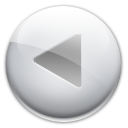
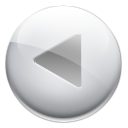
botones translucidos ambos

diff --git a/client/src/App.js b/client/src/App.js
@@ -4,8 +4,8 @@
 //el fetch es para traer datos del backend
 import { useState, useEffect } from "react";
 import './App.css'
-import back from './back2.png'
-import forward from './forward.png'
+import backI from './back2.png'
+import forwardI from './forward.png'
 
 function App() {
   //esta declaracion el array es el primero data es la variable que deseamos usar
@@ -50,7 +50,7 @@ function App() {
   <div className="scroll-page0" id="page-1">
 {/* Imagen para atras con boton */}
  <button onClick={()=>back()} z-index='-0'>
- <img  src={back} z-index='20' width="60" height="60"  alt="" /> 
+ <img  src={backI} z-index='20' width="60" height="60"  alt="" /> 
   </button>
     {/* Si tengo data imprime en pantallla los datos de la data */}
     <h6>{data?data.Cards[i].name:null}</h6>
@@ -59,7 +59,7 @@ function App() {
 
 {/* Imagen para adelante con boton */}
 <button onClick={()=>forward()}>
-<img  src={forward}  width="60"  alt="" />
+<img  src={forwardI}  width="60"  height="60"  alt="" />
 </button>
   </div>
 
